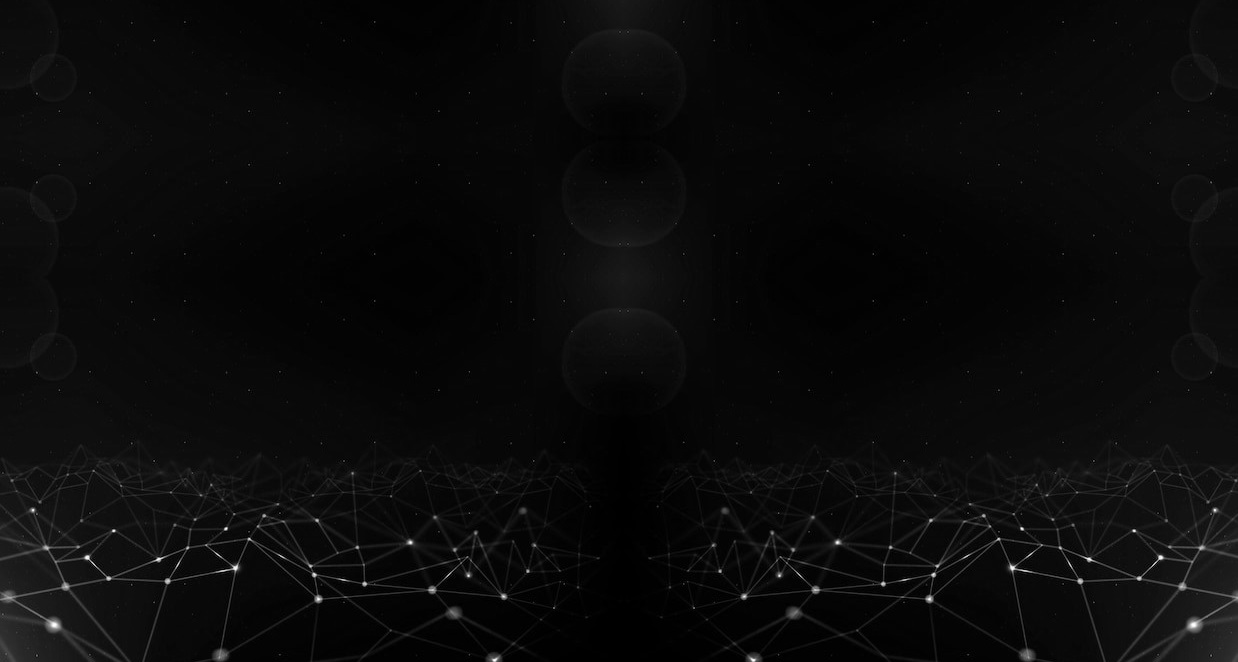
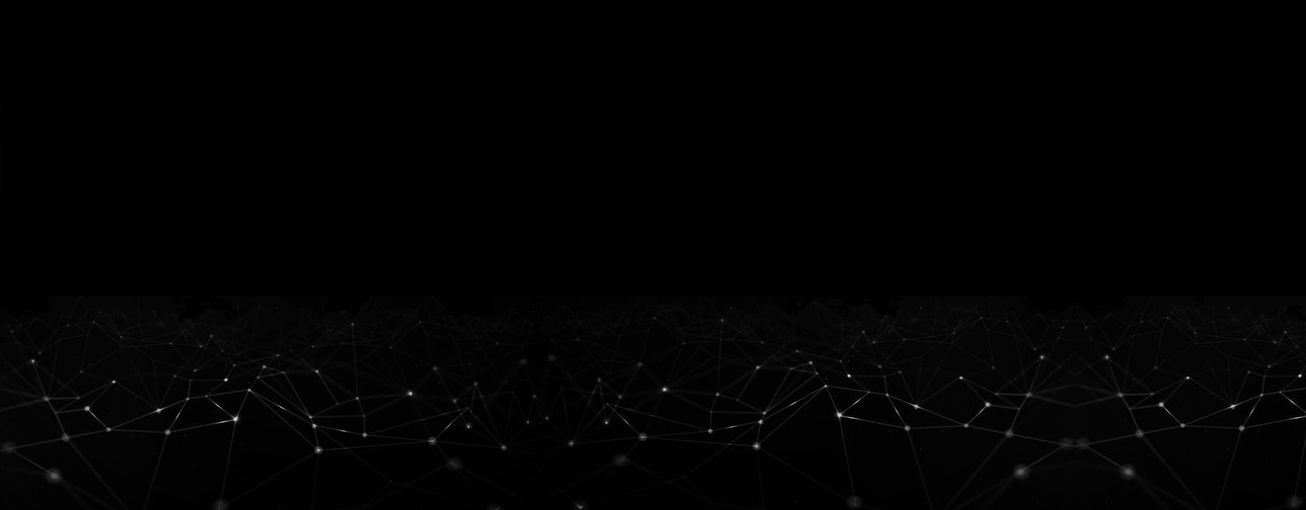
made some changes

diff --git a/portfolio project/javascript/portfolio.js b/portfolio project/javascript/portfolio.js
@@ -1,5 +1,6 @@
-var x = 0;
-var topic_of_projects = ["Planet survival prediction - Neo's data",
+var x = 1;
+var topic_of_projects = ["Dogs vs Cats prediction", 
+"Planet survival prediction - Neo's data",
 "Fiverr Spammer Detection",
 "<a href = 'www.com' alt = 'great motors'>Great Motors</a> price prediction",
 "Fashion MNIST",
@@ -8,15 +9,16 @@ var topic_of_projects = ["Planet survival prediction - Neo's data",
 "NEO-Nasa",
 "House Price Prediction"
                         ]
-let details = {"Planet survival prediction - Neo's data": ["The objective of the challenge is to predict the price (Amount (Million Naira) the company should sell a car based on the available data (Location, Maker, Model, Year, Colour, Amount (Million Naira), Type, Distance", 'https://github.com/Tolulopeelijah/great_motors'], 
-                        "Fiverr Spammer Detection": ['', 'https://github.com/Tolulopeelijah/Fiverr-spammers-detection-'], 
-                        "<a href = 'www.com' alt = 'great motors'>Great Motors</a> price prediction": ['The objective of the challenge is to predict the price (Amount (Million Naira) the company should sell a car based on the available data (Location, Maker, Model, Year, Colour, Amount (Million Naira), Type, Distance', 'https://github.com/Tolulopeelijah/great_motors'], 
-                        "Fashion MNIST":['', 'https://github.com/Tolulopeelijah/fashion_mnist-with-tensorflow'],
+let details = {"Dogs vs Cats prediction":['', '<a href = "https://github.com/Tolulopeelijah/Cats-vs-Dog-classifier" id = "proj_github"><img src="../images/logo/github.png", alt = "github/Tolulopee"></a>'],
+                        "Planet survival prediction - Neo's data": ["The objective of the challenge is to predict the price (Amount (Million Naira) the company should sell a car based on the available data (Location, Maker, Model, Year, Colour, Amount (Million Naira), Type, Distance", '<a href = "https://github.com/Tolulopeelijah/great_motors" id = "proj_github"><img src="../images/logo/github.png" alt = "github/Tolulopee"></a>'], 
+                        "Fiverr Spammer Detection": ['', '<a href = "https://github.com/Tolulopeelijah/Fiverr-spammers-detection-" id = "proj_github"><img src="../images/logo/github.png", alt = "github/Tolulopee"></a>'], 
+                        "<a href = 'www.com' alt = 'great motors'>Great Motors</a> price prediction": ['The objective of the challenge is to predict the price (Amount (Million Naira) the company should sell a car based on the available data (Location, Maker, Model, Year, Colour, Amount (Million Naira), Type, Distance', '<a href = "https://github.com/Tolulopeelijah/great_motors" id = "proj_github"><img src="../images/logo/github.png", alt = "github/Tolulopee"></a>'], 
+                        "Fashion MNIST":['', '<a href = "https://github.com/Tolulopeelijah/fashion_mnist-with-tensorflow" id = "proj_github"><img src="../images/logo/github.png", alt = "github/Tolulopee"></a>'],
                         "Spaceship Titanic Survival prediction": ['Welcome to the year 2912, where your data science skills are needed to solve a cosmic mystery. We\'ve received a transmission from four lightyears away and things aren\'t looking good.\
-                        The Spaceship Titanic was an interstellar passenger liner launched a month ago. With almost 13,000 passengers on board, the vessel set out on its maiden voyage transporting emigrants from our solar system to three newly habitable exoplanets orbiting nearby stars.\n While rounding Alpha Centauri en route to its first destination—the torrid 55 Cancri E—the unwary Spaceship Titanic collided with a spacetime anomaly hidden within a dust cloud. Sadly, it met a similar fate as its namesake from 1000 years before. Though the ship stayed intact, almost half of the passengers were transported to an alternate dimension!'],
-                        "Digit Recognition":['', 'https://github.com/Tolulopeelijah/Digit-Recognizer'],
-                        "NEO-Nasa": ['There is an infinite number of objects in the outer space. Some of them are closer than we think. Even though we might think that a distance of 70,000 Km can not potentially harm us, but at an astronomical scale, this is a very small distance and can disrupt many natural phenomena. These objects/asteroids can thus prove to be harmful. Hence, it is wise to know what is surrounding us and what can harm us amongst those. Thus, this dataset compiles the list of NASA certified asteroids that are classified as the nearest earth object.description', 'https://github.com/Tolulopeelijah/neo---nasa'],
-                        "House Price Prediction": ['', 'https://github.com/Tolulopeelijah/house-price-prediction']
+                        The Spaceship Titanic was an interstellar passenger liner launched a month ago. With almost 13,000 passengers on board, the vessel set out on its maiden voyage transporting emigrants from our solar system to three newly habitable exoplanets orbiting nearby stars.\n While rounding Alpha Centauri en route to its first destination—the torrid 55 Cancri E—the unwary Spaceship Titanic collided with a spacetime anomaly hidden within a dust cloud. Sadly, it met a similar fate as its namesake from 1000 years before. Though the ship stayed intact, almost half of the passengers were transported to an alternate dimension!', '<a href = "https://github.com/Tolulopeelijah/Cats-vs-Dog-classifier" id = "proj_github"><img src="../images/logo/github.png", alt = "github/Tolulopee"></a>'],
+                        "Digit Recognition":['', '<a href = "https://github.com/Tolulopeelijah/Digit-Recognizer" id = "proj_github"><img src="../images/logo/github.png", alt = "github/Tolulopee"></a>'],
+                        "NEO-Nasa": ['There is an infinite number of objects in the outer space. Some of them are closer than we think. Even though we might think that a distance of 70,000 Km can not potentially harm us, but at an astronomical scale, this is a very small distance and can disrupt many natural phenomena. These objects/asteroids can thus prove to be harmful. Hence, it is wise to know what is surrounding us and what can harm us amongst those. Thus, this dataset compiles the list of NASA certified asteroids that are classified as the nearest earth object.description', '<a href = "https://github.com/Tolulopeelijah/neo---nasa" id = "proj_github"><img src="../images/logo/github.png", alt = "github/Tolulopee"></a>'],
+                        "House Price Prediction": ['', '<a href = \'https://github.com/Tolulopeelijah/house-price-prediction\' id = "proj_github"><img src="../images/logo/github.png", alt = "github/Tolulopee"></a>']
 
                     }
 function right_scroll (){

diff --git a/portfolio project/css files/portfolio.css b/portfolio project/css files/portfolio.css
@@ -25,7 +25,7 @@ div{
     margin: 20px;
 }
 body{
-    margin-top: 200px;
+    /* margin-top: 200px; */
     height: 75vh;
     background-color: black;
     color:white;
@@ -61,11 +61,23 @@ background-image: '../pictures/logo/twitter.png '
 #home, #projects, #contacts, #about{
     height:80vh;
     padding: 100px;
+
+}
+#about{
+    background-image:url("../images/background/about.jpg ");
+    background-repeat:no-repeat;
+    background-position: left middle;   
 }
 #projects{
     background-image:url("../images/background/project.jpg ");
-    background-repeat:repeat-x;
+    background-repeat: no-repeat;
     background-position: left bottom;   
+}
+#pic{
+    height: 100%;
+    width: 50%; 
+    float:left; 
+    margin-left: 0;
 }
 #name{
     font-family:Verdana, Geneva, Tahoma, sans-serif;
@@ -73,7 +85,7 @@ background-image: '../pictures/logo/twitter.png '
     width:400px;
     overflow:visible;
     margin-left: 650px;
-    margin-bottom: 0;
+    margin-bottom: 0px;
     text-align: center;
 }
 #bio{
@@ -81,7 +93,7 @@ background-image: '../pictures/logo/twitter.png '
     margin-left: 550px;
     text-align: center;
     color:gray;
-    font-family:Cambria, Cochin, Georgia, Times, 'Times New Roman', serif
+    font-family:Cambria, Cochin, Georgia, Times, 'Times New Roman', serif;
 }
 #proj{
     margin-top: 70px;
@@ -95,13 +107,13 @@ background-image: '../pictures/logo/twitter.png '
 #left{
     position: absolute;
     left:50px;
-    top:320vh;
+    top:300vh;
     /* float: left; */
 }
 #right{
     position: absolute;
     right: 50px;
-    top:320vh;
+    top:300vh;
     /* float: right; */
 }
 #project_topic{
@@ -122,4 +134,7 @@ font-size: 25px;}
 }
 #next:hover{
     opacity: 0.4;
+}
+#proj_github{
+margin-top: 100px;
 }

diff --git a/portfolio project/html files/portfolio.html b/portfolio project/html files/portfolio.html
@@ -21,6 +21,7 @@
     </header>
 <section>
         <div id="home">
+            <img src = "../images/my_pictures/psg2dx.jpg" alt = "Tolulope Elijah" id = "pic" />
             <p id = "name">TOLULOPE ELIJAH</p>
             <p id="bio">Hey there! I am <span id = "tolulope">Tolulope</span>, a <span id = "csc">Computer Science</span> student and a <span id = "ds">Data Science</span> Enthusiasts with approximately close to 3 years of technical experience in the field or 4 years in tech world at large</p>
         </div>
